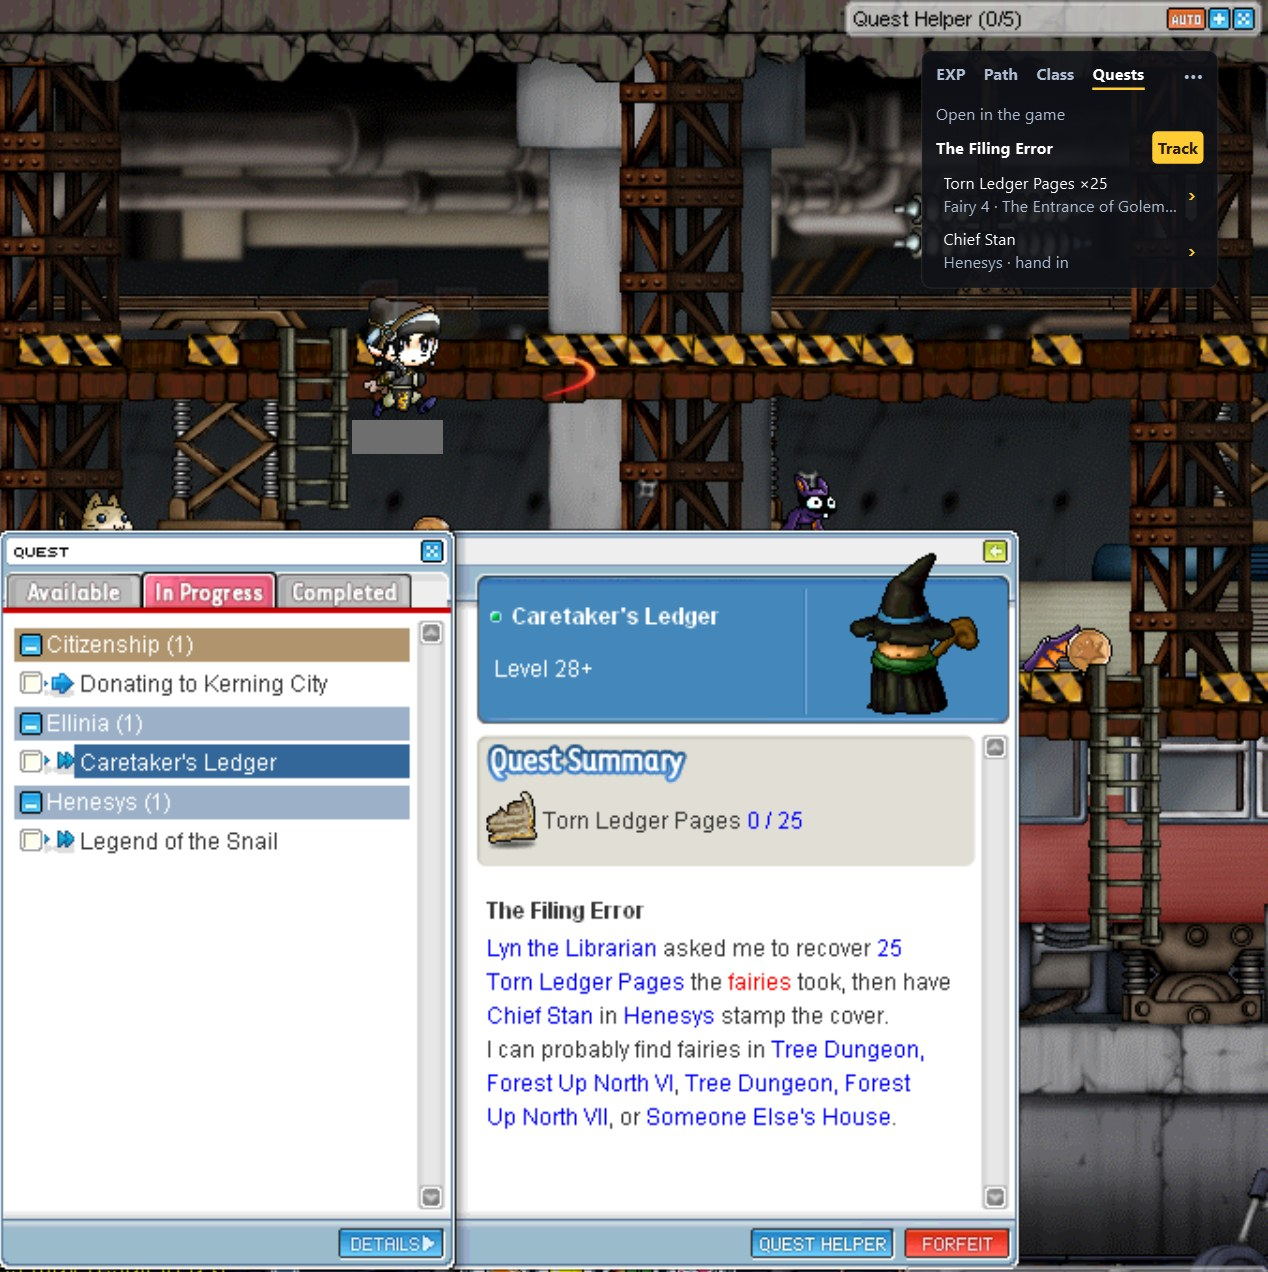
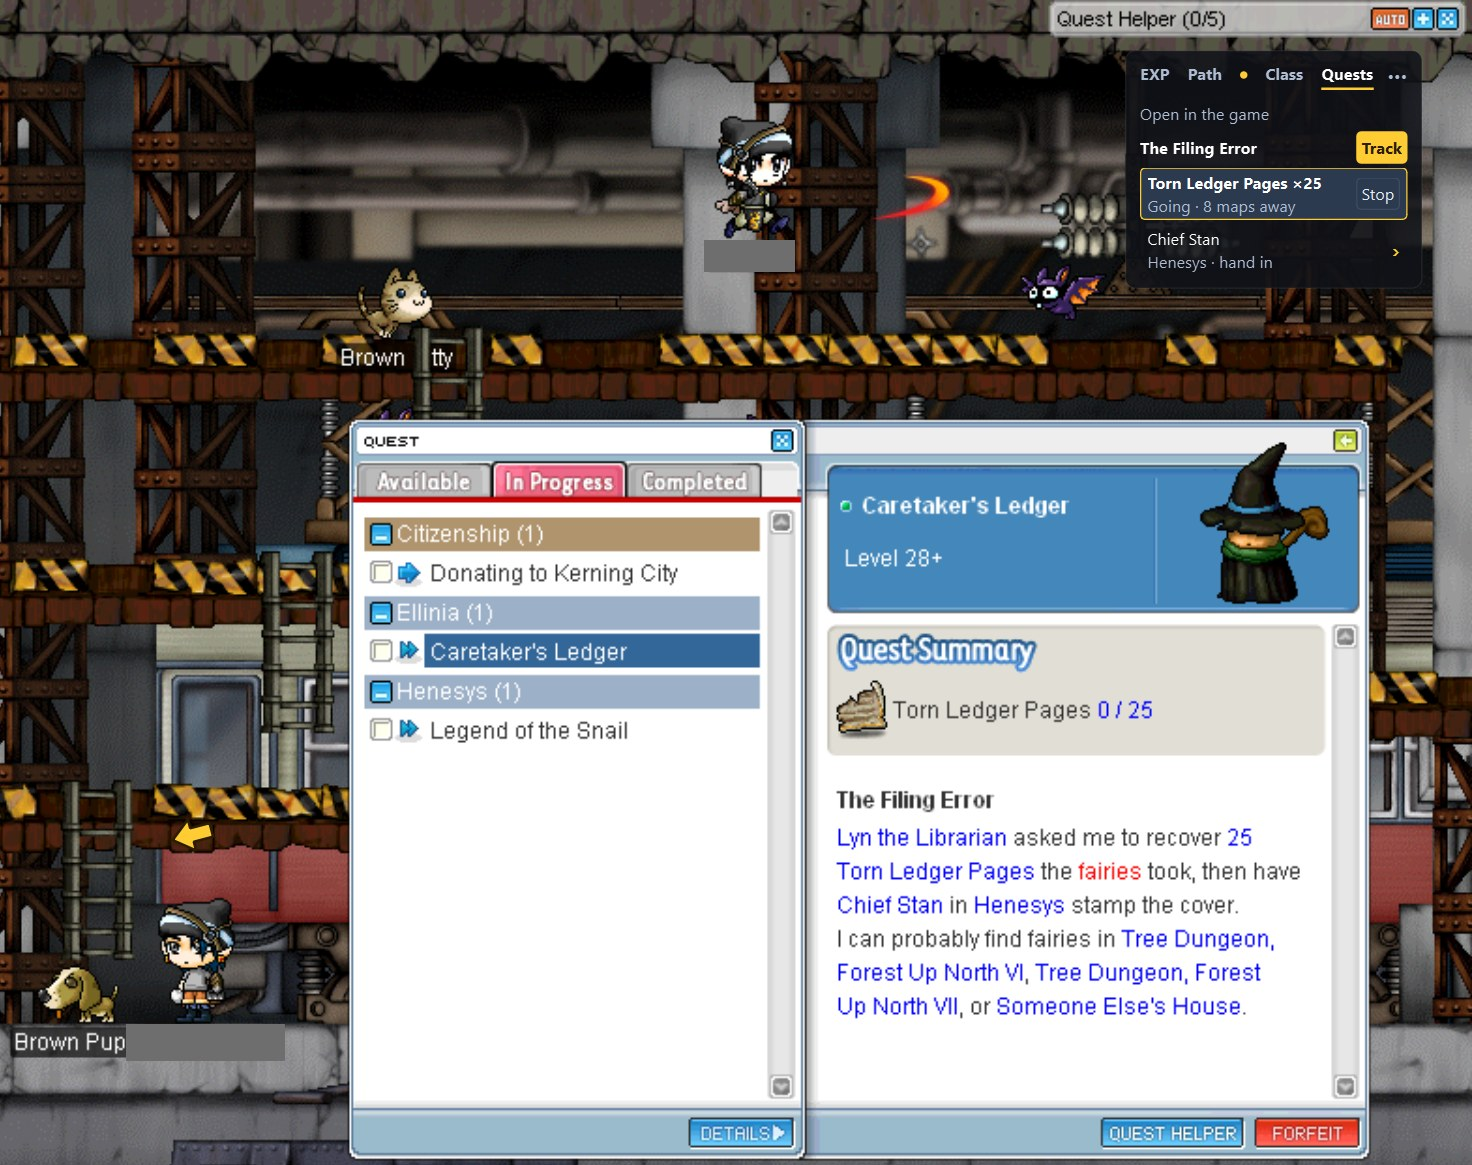
docs: a Quests tab shot with a trip running

diff --git a/README.md b/README.md
@@ -24,7 +24,7 @@ one click to set a route there, plus what comes next: job advancement, gear and 
 **Quest helper:** open a quest in the game and the Quests tab shows where to go for each
 NPC, monster and item it needs, one click to set a route there. Track quests to keep them.
 
-![The Quests tab next to the game's quest window: for The Filing Error it lists Torn Ledger Pages x25 from Fairy 4 at The Entrance of Golem's Temple and Chief Stan in Henesys to hand in, with a Track button](docs/screenshots/quests.jpg)
+![The Quests tab next to the game's quest window: The Filing Error's Torn Ledger Pages row is outlined with Going · 8 maps away and a Stop button, the Path tab shows its running dot, and a yellow arrow by the character points the way](docs/screenshots/quests.jpg)
 
 ## The promise: screen-reading only
 
